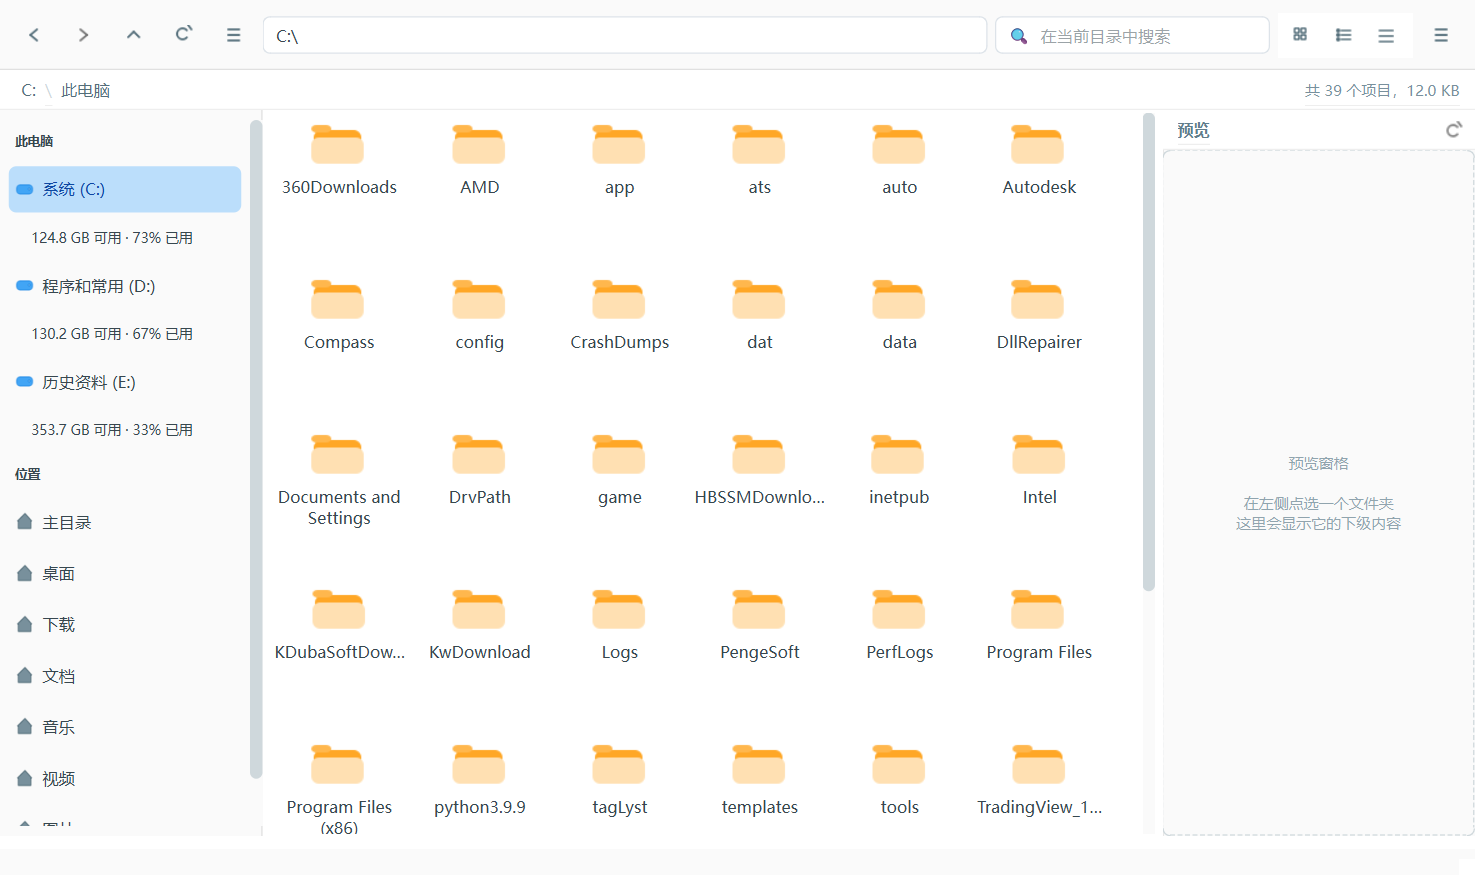
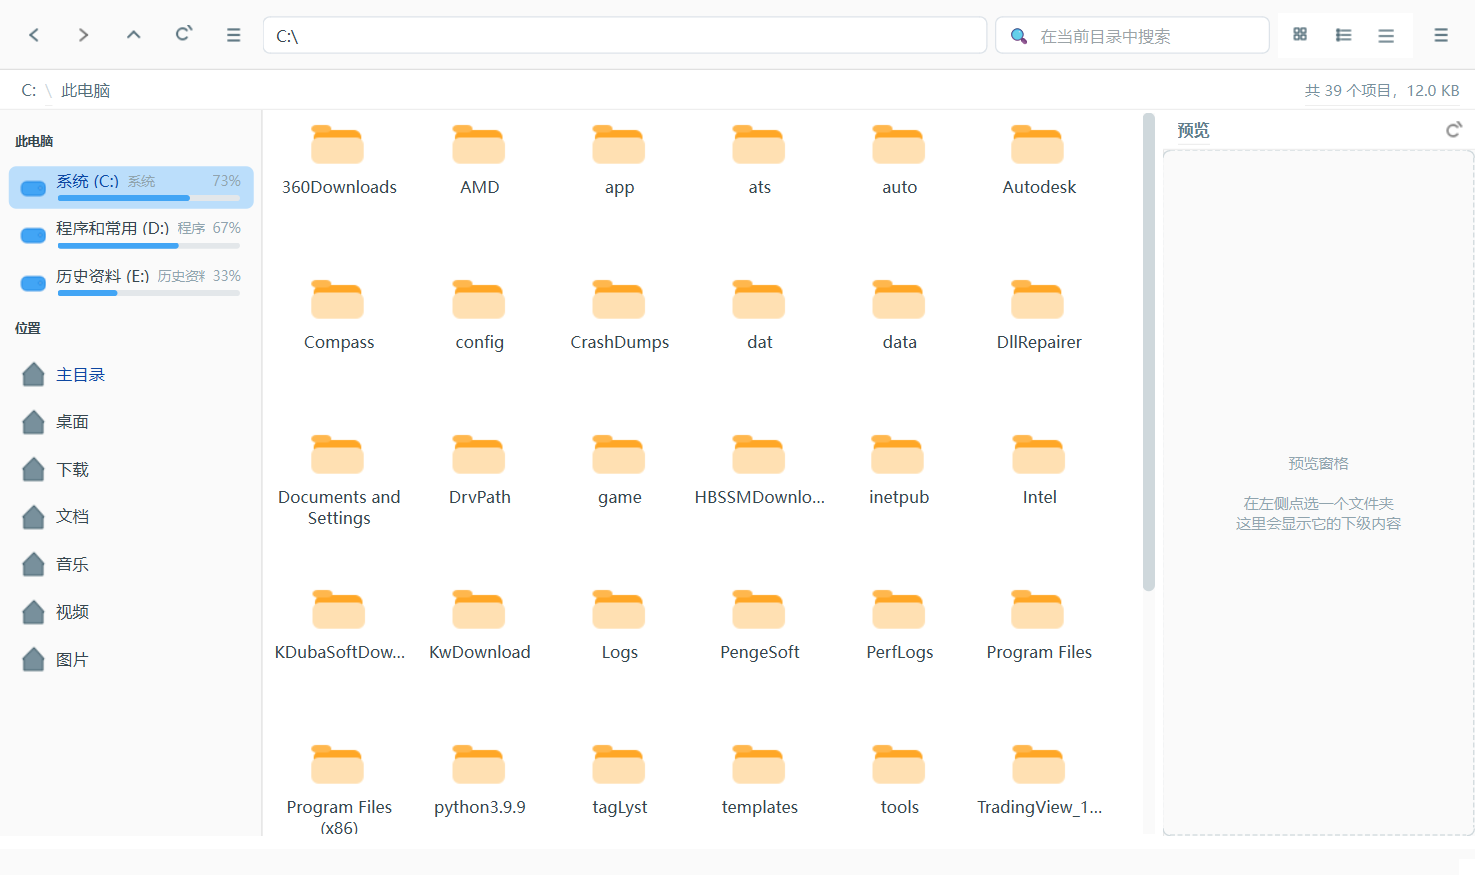
feat: 侧栏分区合并为单条，容量改为图形化容量条
原先每个分区占两条列表项：一行「盘符名」，下面再一行「124.3 GB 可用 ·
73% 已用」。信息割裂且纵向空间浪费。

现在合并为一条 DriveItemWidget：
  [图标] 盘符名  卷标                    已用%
         ▓▓▓▓▓▓▓▓░░░░░░

- 新增 UsageBar 控件：QPainter 画圆角底槽 + 圆角填充，5px 高
  配色随占用率变化 —— <75% 蓝、>=75% 橙、>=90% 红
- 新增 DriveItemWidget：图标 + 盘符名 + 卷标 + 百分比 + 容量条
- 容量文字只留百分比（侧栏210px 宽，完整的空间大小会被截断），
  剩余/总量/文件系统等详细信息移到 tooltip
- 卷标设为 QSizePolicy.Ignored，宽度不足时优先省略卷标而非挤掉百分比
- 自定义 widget 不随列表项自动变色，_sync_side_selection 里手动
  调widget.set_active() 同步选中态（选中时主文字转深蓝）

刷新时同步维护 self._drive_widgets 供高亮与测试使用。

测试
- smoke_test.py 的「侧栏显示容量摘要」改为查widget 内标签的百分比，
  并新增 3 项：存在图形化容量条、分区已合并为单条、条目数正确
- 77 -> 86 项，全部通过；preview 41、sidebar 19 项亦全部通过

README 同步更新，shot_sidebar.png 重新生成。

diff --git a/main_window.py b/main_window.py
@@ -19,6 +19,7 @@ from PySide6.QtWidgets import (
     QLineEdit, QListWidget, QListWidgetItem, QMainWindow, QMenu, QMessageBox,
     QProgressBar, QPushButton, QSplitter, QStackedWidget, QStatusBar,
     QScrollArea,
+    QSizePolicy,
     QTableWidget, QTableWidgetItem, QToolBar, QToolButton, QVBoxLayout,
     QWidget, QAbstractItemView as AIV)
 
@@ -697,6 +698,125 @@ class NavHistory:
         return None
 
 
+class UsageBar(QWidget):
+    """极简容量条：底槽 + 填充，一眼看出用了多少。"""
+
+    def __init__(self, pct: int, parent=None):
+        super().__init__(parent)
+        self.pct = max(0, min(100, int(pct)))
+        self.setFixedHeight(5)
+        self.setStyleSheet("background:transparent;")
+
+    def paintEvent(self, event):
+        p = QPainter(self)
+        p.setRenderHint(QPainter.RenderHint.Antialiasing)
+        w, h = self.width(), self.height()
+        r = h / 2
+        p.setPen(Qt.PenStyle.NoPen)
+        p.setBrush(QColor("#E3E7EA"))                  # 底槽
+        p.drawRoundedRect(0, 0, w, h, r, r)
+        if self.pct >= 90:
+            fill = QColor("#EF5350")                   # 快满了，红色警示
+        elif self.pct >= 75:
+            fill = QColor("#FFA726")
+        else:
+            fill = QColor("#42A5F5")
+        fw = max(h, int(w * self.pct / 100))
+        p.setBrush(fill)
+        p.drawRoundedRect(0, 0, fw, h, r, r)
+        p.end()
+
+
+class DriveItemWidget(QWidget):
+    """
+    侧栏里的单个分区条目：图标 + 盘符名 + 图形化容量条 + 剩余空间。
+    原来是「一行盘符 + 一行容量文字」两条列表项，现在合并成一条。
+    """
+
+    def __init__(self, d: DriveInfo, parent=None):
+        super().__init__(parent)
+        self.root = d.root
+
+        lay = QHBoxLayout(self)
+        lay.setContentsMargins(6, 4, 8, 4)
+        lay.setSpacing(8)
+
+        icon = QLabel()
+        pm = drive_icon_pixmap(d)
+        if not pm.isNull():
+            icon.setPixmap(pm)
+        icon.setFixedSize(22, 22)
+        icon.setStyleSheet("background:transparent;")
+        lay.addWidget(icon, 0, Qt.AlignmentFlag.AlignVCenter)
+
+        mid = QVBoxLayout()
+        mid.setContentsMargins(0, 0, 0, 0)
+        mid.setSpacing(3)
+
+        top = QHBoxLayout()
+        top.setContentsMargins(0, 0, 0, 0)
+        top.setSpacing(6)
+
+        name = QLabel(d.name)
+        name.setStyleSheet(
+            "background:transparent;color:#37474F;font-size:13px;")
+        # 空间不足时优先省略卷标，而不是把剩余空间挤掉
+        name.setSizePolicy(QSizePolicy.Policy.Preferred,
+                           QSizePolicy.Policy.Preferred)
+        top.addWidget(name, 0)
+
+        if d.label and d.label != d.name:
+            vol = QLabel(d.label)
+            vol.setStyleSheet(
+                "background:transparent;color:#90A4AE;font-size:11px;")
+            vol.setSizePolicy(QSizePolicy.Policy.Ignored,
+                              QSizePolicy.Policy.Preferred)
+            top.addWidget(vol, 1)
+        else:
+            top.addStretch(1)
+
+        if d.total > 0:
+            used_pct = int((d.total - d.free) / d.total * 100)
+            # 侧栏宽度有限，这里只放百分比；完整的剩余/总量在 tooltip 里。
+            # 容量条已经图形化了，文字不必重复占用横向空间。
+            free_t = QLabel(f"{used_pct}%")
+            free_t.setStyleSheet(
+                "background:transparent;color:#90A4AE;font-size:11px;")
+            free_t.setSizePolicy(QSizePolicy.Policy.Fixed,
+                                 QSizePolicy.Policy.Preferred)
+            top.addWidget(free_t, 0)
+            mid.addLayout(top)
+            # 容量条铺满整行宽度，与上方文字左对齐
+            bar = UsageBar(used_pct)
+            bar.setSizePolicy(QSizePolicy.Policy.Expanding,
+                              QSizePolicy.Policy.Fixed)
+            bar_wrap = QVBoxLayout()
+            bar_wrap.setContentsMargins(1, 3, 1, 0)
+            bar_wrap.addWidget(bar)
+            mid.addLayout(bar_wrap)
+        else:
+            mid.addLayout(top)
+
+        lay.addLayout(mid, 1)
+
+        tip = d.root
+        if d.fstype:
+            tip += f"\n{d.fstype}"
+        if d.total:
+            tip += (f"\n剩余 {human_size(d.free)} / 共 {human_size(d.total)}"
+                    f"  (已用 {int((d.total - d.free) / d.total * 100)}%)")
+        self.setToolTip(tip)
+
+    def set_active(self, on: bool):
+        """选中时把主文字改为深蓝，在蓝底上更清晰。"""
+        for lab in self.findChildren(QLabel):
+            cur = lab.styleSheet()
+            if "color:#37474F" in cur:
+                lab.setStyleSheet(cur.replace(
+                    "color:#37474F",
+                    "color:#0D47A1" if on else "color:#37474F"))
+
+
 # ---------------------------------------------------------------- 主窗口
 
 def _arrow_pixmap(kind: str, size: int = 18, color="#546E7A") -> QPixmap:
@@ -1109,6 +1229,7 @@ class Explorer(QMainWindow):
         self.side_list.blockSignals(True)
         self.side_list.clear()
         self._drive_items = []
+        self._drive_widgets = []
 
         try:
             drives = list_drives()
@@ -1119,29 +1240,15 @@ class Explorer(QMainWindow):
         disks = [d for d in drives if d.kind != "home"]
 
         def add(d: DriveInfo):
-            it = QListWidgetItem(d.name)
-            it.setIcon(QIcon(drive_icon_pixmap(d)))
-            it.setData(Qt.ItemDataRole.UserRole, d.root)
-            tip = d.root
-            if d.fstype:
-                tip += f"\n{d.fstype}"
-            if d.total:
-                used = human_size(d.total - d.free)
-                tip += (f"\n已用 {used} / 共 {human_size(d.total)}"
-                        f"  ({d.free / d.total * 100:.0f}% 可用)")
-            it.setToolTip(tip)
-            self.side_list.addItem(it)
+            # 用自定义 widget 把「盘符 + 容量」合并成一条，
+            # 容量用图形条表示，不再额外占一行列表项
+            item = QListWidgetItem()
+            item.setData(Qt.ItemDataRole.UserRole, d.root)
+            widget = DriveItemWidget(d)
+            self.side_list.addItem(item)
+            self.side_list.setItemWidget(item, widget)
+            self._drive_widgets.append((item, widget))
             self._drive_items.append(d)
-            # 有容量的卷在名称后追加一行紧凑的剩余空间，扫一眼就能判断
-            if d.total > 0 and d.kind != "home":
-                used_pct = int((d.total - d.free) / d.total * 100)
-                sub = QListWidgetItem(f"    {human_size(d.free)} 可用 · {used_pct}% 已用")
-                sub.setFlags(Qt.ItemFlag.NoItemFlags)
-                f = sub.font()
-                f.setPointSizeF(max(7.0, f.pointSizeF() - 1.0))
-                sub.setFont(f)
-                sub.setForeground(QColor("#FF7043" if used_pct >= 90 else "#90A4AE"))
-                self.side_list.addItem(sub)
 
         if disks:
             # 磁盘在上、快捷位置在下：盘符是最高频的跳转入口，
@@ -1184,6 +1291,9 @@ class Explorer(QMainWindow):
                 if len(r) > best_len:
                     best_len, best = len(r), i
         self.side_list.setCurrentRow(best)
+        # 自定义 widget 不随列表项自动变色，需手动同步选中态
+        for item, widget in getattr(self, "_drive_widgets", []):
+            widget.set_active(item is self.side_list.currentItem())
 
     def _side_clicked(self, item):
         root = item.data(Qt.ItemDataRole.UserRole)

diff --git a/smoke_test.py b/smoke_test.py
@@ -240,11 +240,36 @@ def main():
           all(isinstance(f, str) for f in fstypes), str(fstypes))
     check("fstype 非空", any(fstypes), str(fstypes))
 
-    # 有容量的卷应带一行容量摘要
-    cap_rows = sum(
-        1 for i in range(w.side_list.count())
-        if "可用" in (w.side_list.item(i).text() or ""))
-    check("侧栏显示容量摘要", cap_rows >= len(disk_roots), str(cap_rows))
+    # 有容量的卷，其条目内应显示百分比（容量条已图形化，
+    # 不再单独占一行列表项，所以不能查 item().text()）
+    cap_rows = 0
+    from PySide6.QtWidgets import QLabel as _QL
+    for item, widget in getattr(w, "_drive_widgets", []):
+        texts = [lb.text() for lb in widget.findChildren(_QL)]
+        if any("%" in t for t in texts):
+            cap_rows += 1
+    check("侧栏显示容量百分比", cap_rows >= len(disk_roots), str(cap_rows))
+
+    # 每个分区应有一个图形化容量条
+    from main_window import UsageBar as _UB
+    bars = 0
+    for item, widget in getattr(w, "_drive_widgets", []):
+        bars += len(widget.findChildren(_UB))
+    check("侧栏有图形化容量条", bars >= len(disk_roots), str(bars))
+
+    # 分区条目应当合并为一条（不是盘符 + 容量两行）
+    _disc_items = []
+    for item, widget in getattr(w, "_drive_widgets", []):
+        root = item.data(Qt.ItemDataRole.UserRole)
+        if root and root.rstrip("\\/").upper() in [
+                d.rstrip("\\/").upper() for d in disk_roots]:
+            _disc_items.append(item)
+    _texts = [(it.text() or "") for it in _disc_items]
+    check("分区盘符与容量已合并为一条（无独立容量行）",
+          not any("可用" in t for t in _texts), str(_texts))
+    check("分区条目数正确",
+          len(_disc_items) == len(disk_roots),
+          f"{len(_disc_items)} vs {len(disk_roots)}")
 
     # 定位到 C 盘根目录
     win_drive = next((d for d in drives if d.kind in ("disk", "removable")), None)

diff --git a/README.md b/README.md
@@ -68,7 +68,9 @@ python run.py
 ### 浏览
 
 - 左侧**驱动器栏**分两组：上「此电脑」列出全部磁盘分区，下「位置」是主目录/桌面/下载/文档/音乐/视频/图片
-- 每个分区显示卷标、文件系统类型、剩余容量与已用百分比，超90% 标红
+- 每个分区合并为一条：图标 + 盘符名 + 卷标 + 已用百分比，下方一条**图形化容量条**
+- 容量条配色随占用变化：<75% 蓝、≥75% 橙、≥90% 红
+- 悬停显示完整信息（文件系统、剩余/总量、精确百分比）
 - 侧栏随当前目录自动高亮所在盘（取最长路径匹配，不会被上级盘抢走）
 - `F9` 或工具栏的 ≡ 按钮收起/展开侧栏，分隔条可拖拽调宽（收起后按钮仍在工具栏，可随时恢复）
 - 三种视图：**大图标** / **列表** / **详细信息**，按 `Space` 快速循环
@@ -166,6 +168,8 @@ file_explorer/
 - **后台线程**用 `QThread` + `Signal`，UI 线程只收信号刷新
 - **回收站**走 Windows Shell COM 的 `InvokeVerb('delete')`，跨平台时回退 `send2trash`
 - **矢量按钮图标**用 `QPainter` 画线条，避免 `←` `⟳` 等字符在缺字字体下变方块
+- **侧栏容量条**同样是 `QPainter` 画的（`UsageBar`）：圆角底槽 + 圆角填充，
+  按占用率变色（<75% 蓝、≥75% 橙、≥90% 红），只占 5px 高
 
 ## 运行测试
 
